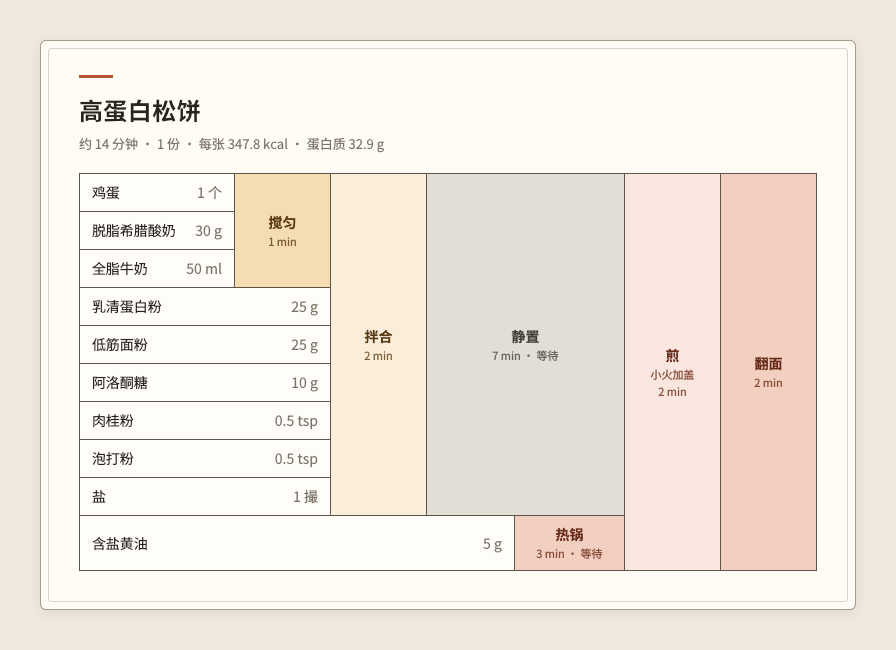
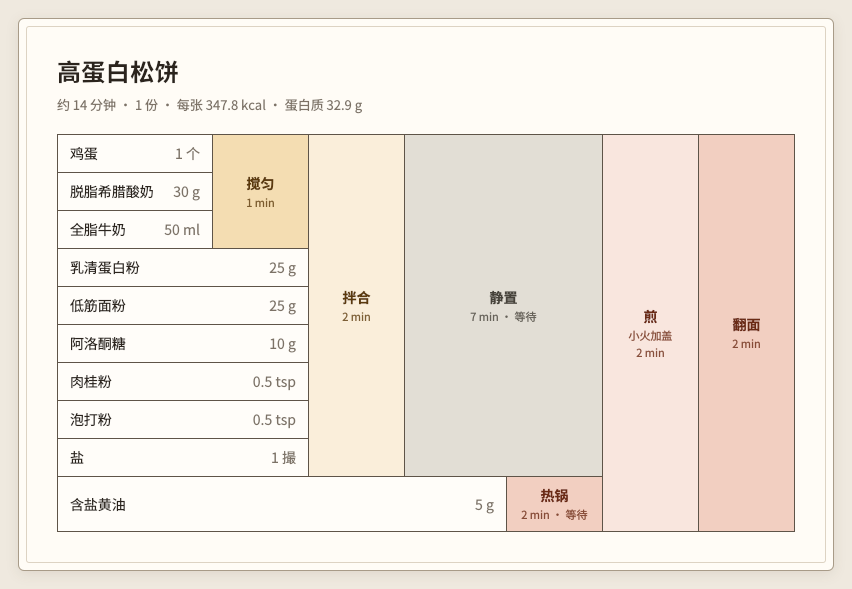
Tighten recipe card: narrow margin, no accent bar, timeline beside nutrition
- outer page margin 40px -> 18px; drop the bar above the title
- timeline and nutrition table sit side by side; timeline label column
  fits its labels so 0 min starts right after them
- high-protein pancake: preheat 3 -> 2 min

Claude-Session: https://claude.ai/code/session_01DayUDejLxFjg47KXXpKida

Changed region(s): [[0.0305, 0.0306, 0.9765, 0.9779], [0.5493, 0.489, 0.6408, 0.5501]]

diff --git a/skills/recipe-table/scripts/render_recipe.py b/skills/recipe-table/scripts/render_recipe.py
@@ -298,7 +298,7 @@ PH = {  # fill A, fill B (alternate columns), text, timeline bar
 INK, MUTED, LINE, HAIR = "#2B241D", "#7C7266", "#5E5448", "#EAE4D9"
 
 def image_html(table_only=False):
-    track_w, lab_w = 420, 120
+    track_w = 300
     px = lambda v: round(track_w * v / total)
     grid = "".join(f'<div style="position:absolute;left:{px(t)}px;top:0;bottom:0;width:1px;background:{HAIR}"></div>' for t in ticks[1:-1])
     tl = []
@@ -312,10 +312,9 @@ def image_html(table_only=False):
     axis = "".join(f'<div style="position:absolute;left:{px(t) - 15}px;width:30px;text-align:center;top:4px">{t}</div>' for t in ticks)
     tl.append(f'<tr><td class="tl axl">{"min" if EN else "分钟"}</td><td><div style="position:relative;height:22px;width:{track_w}px;font-size:11px;color:{MUTED}">{axis}</div></td></tr>')
     step_css = "".join(f".cfe .{p}.c0{{background:{a};color:{t}}}.cfe .{p}.c1{{background:{b};color:{t}}}" for p, (a, b, t, _) in PH.items())
-    css = f"""body{{margin:0;padding:40px;background:#EFE9DF;color:{INK};font-family:"Noto Sans CJK SC","Noto Sans SC",sans-serif;width:1200px}}
+    css = f"""body{{margin:0;padding:18px;background:#EFE9DF;color:{INK};font-family:"Noto Sans CJK SC","Noto Sans SC",sans-serif;width:1200px}}
 .card{{display:inline-block;background:#FFFCF6;border:1px solid #A89B88;border-radius:6px;padding:7px;-webkit-box-shadow:0 3px 14px rgba(60,42,20,.10)}}
 .frame{{border:1px solid #DDD3C3;border-radius:3px;padding:26px 30px 30px}}
-.bar{{width:34px;height:3px;background:#B5532E;margin:0 0 14px}}
 h1{{font-size:24px;font-weight:bold;margin:0 0 6px;letter-spacing:.5px}}
 .sub{{color:{MUTED};font-size:13px;margin-bottom:20px}}
 .sec{{font-size:12px;color:{MUTED};margin:28px 0 10px;letter-spacing:2px}}
@@ -330,22 +329,25 @@ h1{{font-size:24px;font-weight:bold;margin:0 0 6px;letter-spacing:.5px}}
 .tlt{{border-collapse:collapse;font-size:13px}}
 .tlt td{{padding:0}}
 .tlt .tk{{border-bottom:1px solid {HAIR}}}
-.tl{{width:{lab_w}px;padding-right:12px !important;white-space:nowrap;border-bottom:1px solid {HAIR};color:{INK}}}
+.tl{{padding-right:14px !important;white-space:nowrap;border-bottom:1px solid {HAIR};color:{INK}}}
 .axl{{border-bottom:none !important;font-size:11px;color:{MUTED} !important}}
 .nt{{border-collapse:collapse;font-size:14px}}
+.low{{border-collapse:collapse}}
+.low .lo{{padding:0;vertical-align:top}}
 .nt th,.nt td{{border:1px solid {LINE};padding:7px 16px;text-align:left}}
 .nt th{{background:#F4EEE3;font-weight:bold}}
 .nt .v{{text-align:right}}
 .nt .u{{color:{MUTED};font-size:11px;margin-left:4px}}
 """
     table = recipe_table()
-    head = f"<div class=\"bar\"></div><h1>{E(TITLE)}</h1><div class=\"sub\">{E(summary_line())}</div>"
+    head = f"<h1>{E(TITLE)}</h1><div class=\"sub\">{E(summary_line())}</div>"
     if table_only:
         body = f"{head}{table}"
     else:
         nut = f'<div class="sec">营养成分</div>{nutrition_html()}' if has_nut else ""
-        body = (f"{head}{table}"
-                f'<div class="sec">时间线</div><table class="tlt">{"".join(tl)}</table>{nut}')
+        lower = (f'<td class="lo"><div class="sec">时间线</div><table class="tlt">{"".join(tl)}</table></td>'
+                 + (f'<td class="lo" style="padding-left:44px">{nut}</td>' if nut else ""))
+        body = f'{head}{table}<table class="low"><tr>{lower}</tr></table>'
     return f'<!doctype html><html><head><meta charset="utf-8"><style>{css}</style></head><body><div class="card"><div class="frame">{body}</div></div></body></html>'
 
 # ---------- outputs ----------

diff --git a/recipes/breakfast/high-protein-pancake.md b/recipes/breakfast/high-protein-pancake.md
@@ -4,7 +4,7 @@
 
 ## 配方表
 
-<table class="cfe"><colgroup><col style="width:155px"><col style="width:96px"><col style="width:96px"><col style="width:88px"><col style="width:110px"><col style="width:96px"><col style="width:96px"></colgroup><tr><td colspan="1">鸡蛋 <b>1 个</b></td><td rowspan="3" colspan="1">搅匀<br><sub>1 min</sub></td><td rowspan="9" colspan="1">拌合<br><sub>2 min</sub></td><td rowspan="9" colspan="2">静置<br><sub>7 min · 等待</sub></td><td rowspan="10" colspan="1">煎<br><sub>小火加盖</sub><br><sub>2 min</sub></td><td rowspan="10" colspan="1">翻面<br><sub>2 min</sub></td></tr><tr><td colspan="1">脱脂希腊酸奶 <b>30 g</b></td></tr><tr><td colspan="1">全脂牛奶 <b>50 ml</b></td></tr><tr><td colspan="2">乳清蛋白粉 <b>25 g</b></td></tr><tr><td colspan="2">低筋面粉 <b>25 g</b></td></tr><tr><td colspan="2">阿洛酮糖 <b>10 g</b></td></tr><tr><td colspan="2">肉桂粉 <b>0.5 tsp</b></td></tr><tr><td colspan="2">泡打粉 <b>0.5 tsp</b></td></tr><tr><td colspan="2">盐 <b>1 撮</b></td></tr><tr><td colspan="4">含盐黄油 <b>5 g</b></td><td rowspan="1" colspan="1">热锅<br><sub>3 min · 等待</sub></td></tr></table>
+<table class="cfe"><colgroup><col style="width:155px"><col style="width:96px"><col style="width:96px"><col style="width:102px"><col style="width:96px"><col style="width:96px"><col style="width:96px"></colgroup><tr><td colspan="1">鸡蛋 <b>1 个</b></td><td rowspan="3" colspan="1">搅匀<br><sub>1 min</sub></td><td rowspan="9" colspan="1">拌合<br><sub>2 min</sub></td><td rowspan="9" colspan="2">静置<br><sub>7 min · 等待</sub></td><td rowspan="10" colspan="1">煎<br><sub>小火加盖</sub><br><sub>2 min</sub></td><td rowspan="10" colspan="1">翻面<br><sub>2 min</sub></td></tr><tr><td colspan="1">脱脂希腊酸奶 <b>30 g</b></td></tr><tr><td colspan="1">全脂牛奶 <b>50 ml</b></td></tr><tr><td colspan="2">乳清蛋白粉 <b>25 g</b></td></tr><tr><td colspan="2">低筋面粉 <b>25 g</b></td></tr><tr><td colspan="2">阿洛酮糖 <b>10 g</b></td></tr><tr><td colspan="2">肉桂粉 <b>0.5 tsp</b></td></tr><tr><td colspan="2">泡打粉 <b>0.5 tsp</b></td></tr><tr><td colspan="2">盐 <b>1 撮</b></td></tr><tr><td colspan="4">含盐黄油 <b>5 g</b></td><td rowspan="1" colspan="1">热锅<br><sub>2 min · 等待</sub></td></tr></table>
 
 ## 时间线
 
@@ -16,7 +16,7 @@ todayMarker off
   搅匀 :wet, 00, 1m
   拌合 :mix, 01, 2m
   静置 :done, rest, 03, 7m
-  热锅 :done, heat, 07, 3m
+  热锅 :done, heat, 08, 2m
   煎 :fry, 10, 2m
   翻面 :flip, 12, 2m
 ```

diff --git a/skills/recipe-table/references/style.md b/skills/recipe-table/references/style.md
@@ -21,7 +21,8 @@
 
 ## 图片版（`--png` / `--table-png`）
 
-- 整体像一张拿在手里的菜谱卡：浅米色底色上一张奶油白卡片，外框暖灰褐细线、内侧再嵌一圈浅米色细线（双线框），小圆角、很淡的阴影；标题上方一小段陶土红短横线作装饰。文字用深棕色，不用纯黑。不要像网页的圆角矩形。
+- 整体像一张拿在手里的菜谱卡：浅米色底色上一张奶油白卡片，外框暖灰褐细线、内侧再嵌一圈浅米色细线（双线框），小圆角、很淡的阴影；卡片外只留窄窄一圈底色。标题上方不加装饰横线。文字用深棕色，不用纯黑。
+- 完整图片里时间线和营养表并排放在配方表下面（时间线在左），不各占一整行。时间线的名称列按最长步骤名收窄，0 分钟紧跟在名称后面。不要像网页的圆角矩形。
 - 标题、摘要行和表格之间不加分隔线。
 - 配色用暖色调（用户看过冷色版后改回暖色）：备料/混合是浅杏黄，加热是浅橙红，等待是暖浅灰；时间线条形用对应的深一号颜色。
 - 相邻两列同一阶段时一深一浅交替（按列号奇偶），避免两个同色格子贴在一起看不出边界。
